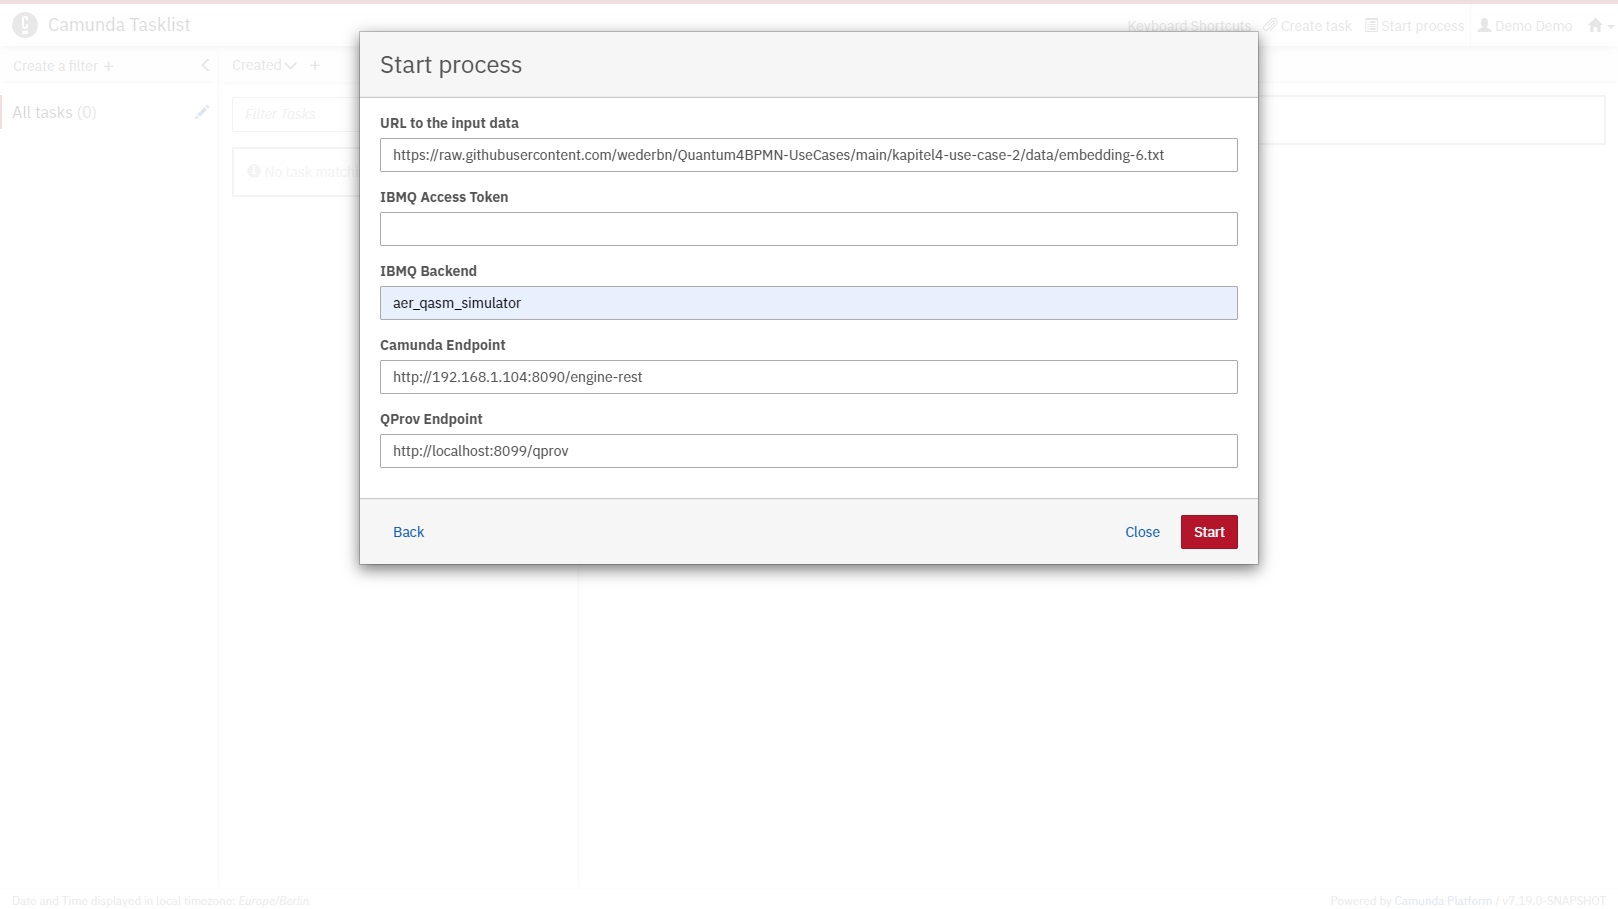
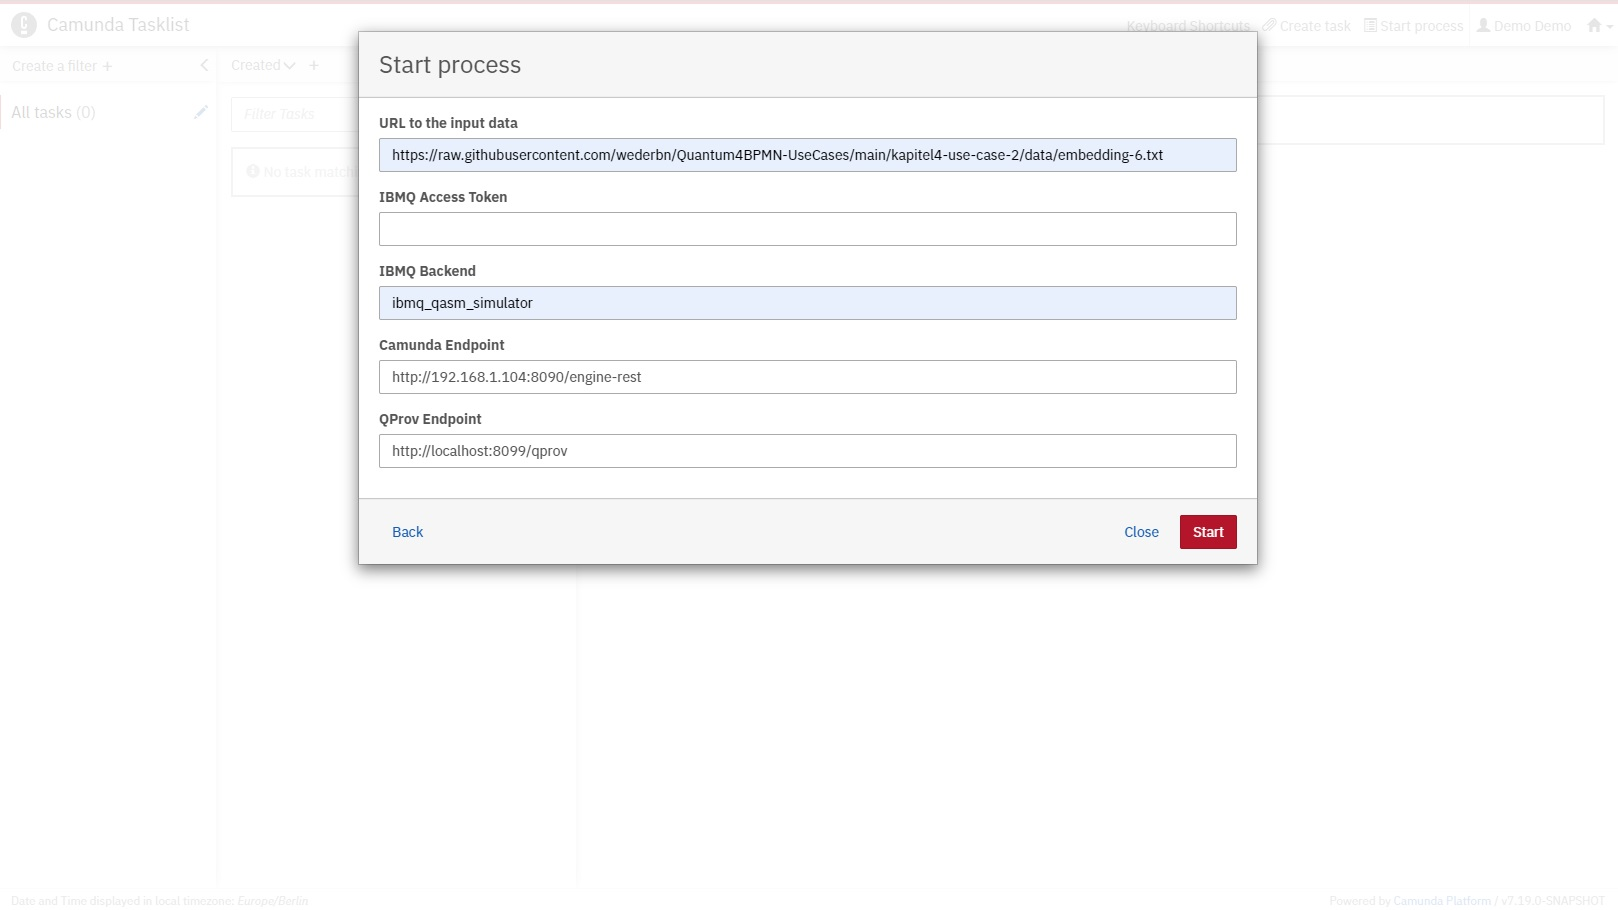
Fix QPU name

diff --git a/kapitel4-use-case-2/README.md b/kapitel4-use-case-2/README.md
@@ -82,7 +82,7 @@ Dazu wird der Button ``Start process`` oben links verwendet, im Popup der Name d
 
 ![Übersicht über die Eingabedaten](./docs/tasklist-input.jpg)
 
-Hierbei muss ein Token für den Zugriff auf IBMQ angegeben und eine zu verwendende QPU ausgewählt werden (im Beispiel der aer_qasm_simulator).
+Hierbei muss ein Token für den Zugriff auf IBMQ angegeben und eine zu verwendende QPU ausgewählt werden (im Beispiel der ibmq_qasm_simulator).
 Zudem wird die URL für den Zugriff auf die erforderlichen Kostümdaten angegeben, wobei [hier](./data) zwei Beispieldatensätze verfügbar sind.
 Anschließend wird die Workflow Instanz durch den ``Start`` Button erzeugt.
 Die laufenden Workfloswinstanzen können im Camunda Cockpit überwacht worden.
